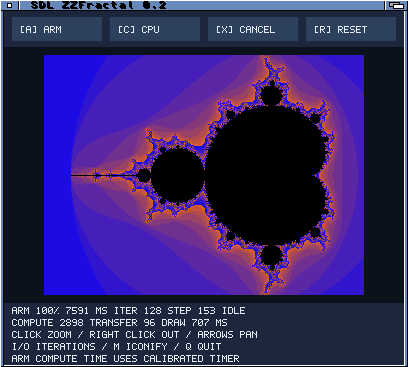
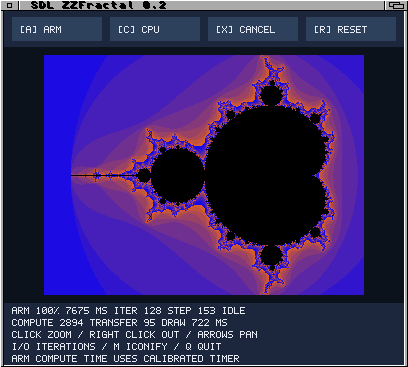
Verify standalone Workbench install, rendering and shutdown

Changed region(s): [[0.0, 0.0, 1.0, 1.0], [0.1765, 0.8392, 0.2059, 0.8992], [0.4706, 0.8692, 0.5, 0.8992]]

diff --git a/docs/SDL-ZZFractal.md b/docs/SDL-ZZFractal.md
@@ -104,8 +104,9 @@ All 76,800 iteration counts matched the independent oracle in each of 14
 completed renders: ARM/68k, default/zoom/pan, changed iterations, Workbench
 and temporary 16-/32-bit screens. Six rapid cancel/zoom cycles, rendering
 while iconified, restore and overlapping windows passed. The window-move
-command was acknowledged; an explicit asynchronous position assertion was
-added to the harness afterward and remains to be exercised.
+command was acknowledged; a later standalone test independently verified
+the window position at (680,300). The harness now waits for asynchronous
+Intuition movement before checking its position.
 Idle timing stayed unchanged. Shutdown reported RET1 and released the owned
 allocation; the bridge remained responsive with no registered client.
 
@@ -135,19 +136,30 @@ The standalone build omits MCP/relay linkage and embeds its ARM payload.
 Audio, texture-renderer compatibility, arbitrary resizing/scaling, other
 hardware and cache-enabled ARM execution remain outside this milestone.
 
-## Standalone package check — pending physical input recovery
+## Standalone distribution acceptance
 
-The native LHA passed integrity testing and fresh extraction on the Amiga;
-the extracted executable MD5 matched `364ec823dea2615b6dc3fb5e91319177`.
-The standalone app launched from Shell and visibly completed its ARM render.
+The 1,153,524-byte standalone executable passed native LHA integrity testing
+and fresh extraction. Every one of the LHA's 10 files matches the ZIP.
+Extracted and installed executable MD5: `364ec823dea2615b6dc3fb5e91319177`.
+Shell execution produced matching default CPU/ARM checksums `fb32f6c6`,
+handled cancellation and discarded its old response. Ctrl-C shutdown returned
+RET1, exited 0 and released its allocation.
 
-![Standalone ARM render](../evidence/2026-10-08/sdl-fractal/standalone-workbench.png)
+The app is installed at `SD032G:Dev/SDLZZFractal-0.2/SDLZZFractal` with native
+Workbench icons and a 131072-byte stack. Workbench launch through WBLoad,
+the firmware-confirmation requester, default ARM rendering, an independently
+verified move to (680,300), and Q quit passed. The owner port disappeared
+and the bridge remained responsive after quit. No OS/firmware/preferences
+or startup files changed. Close other Core1 apps before launching it.
 
-Keyboard CPU/ARM/cancel events were injected and iconification removed the
-window. During the native Workbench AppIcon double-click check, the bridge
-stopped responding after an injected button-down. Its input code documents
-an Intuition icon-drag stall requiring physical button release. The machine
-still answered network pings. Actual AppIcon restoration, standalone log and
-clean-exit checks, Workbench startup and persistent installation remain
-pending; this does not invalidate the completed developer-build suite.
-The release is held as a draft until this is resolved.
+![Installed Workbench application](../evidence/2026-10-08/sdl-fractal/standalone-workbench.png)
+
+**Remaining input check:** native iconification passed, and developer-hook
+restoration passed. Synthetic mouse input on the native Workbench AppIcon
+stalled the bridge, consistent with its documented Intuition icon-drag
+limitation. After recovery, Workbench ARexx `ICON ROOT "SDL ZZFractal" OPEN`
+returned OK without restoring the window. Physical double-click restoration
+therefore remains unverified; do not describe it as a completed test. Recovery
+needed no reboot, and the standalone app subsequently shut down cleanly.
+The Workbench ARexx command follows the
+[AmigaOS documentation](https://wiki.amigaos.net/wiki/Workbench_ARexx_Port).
